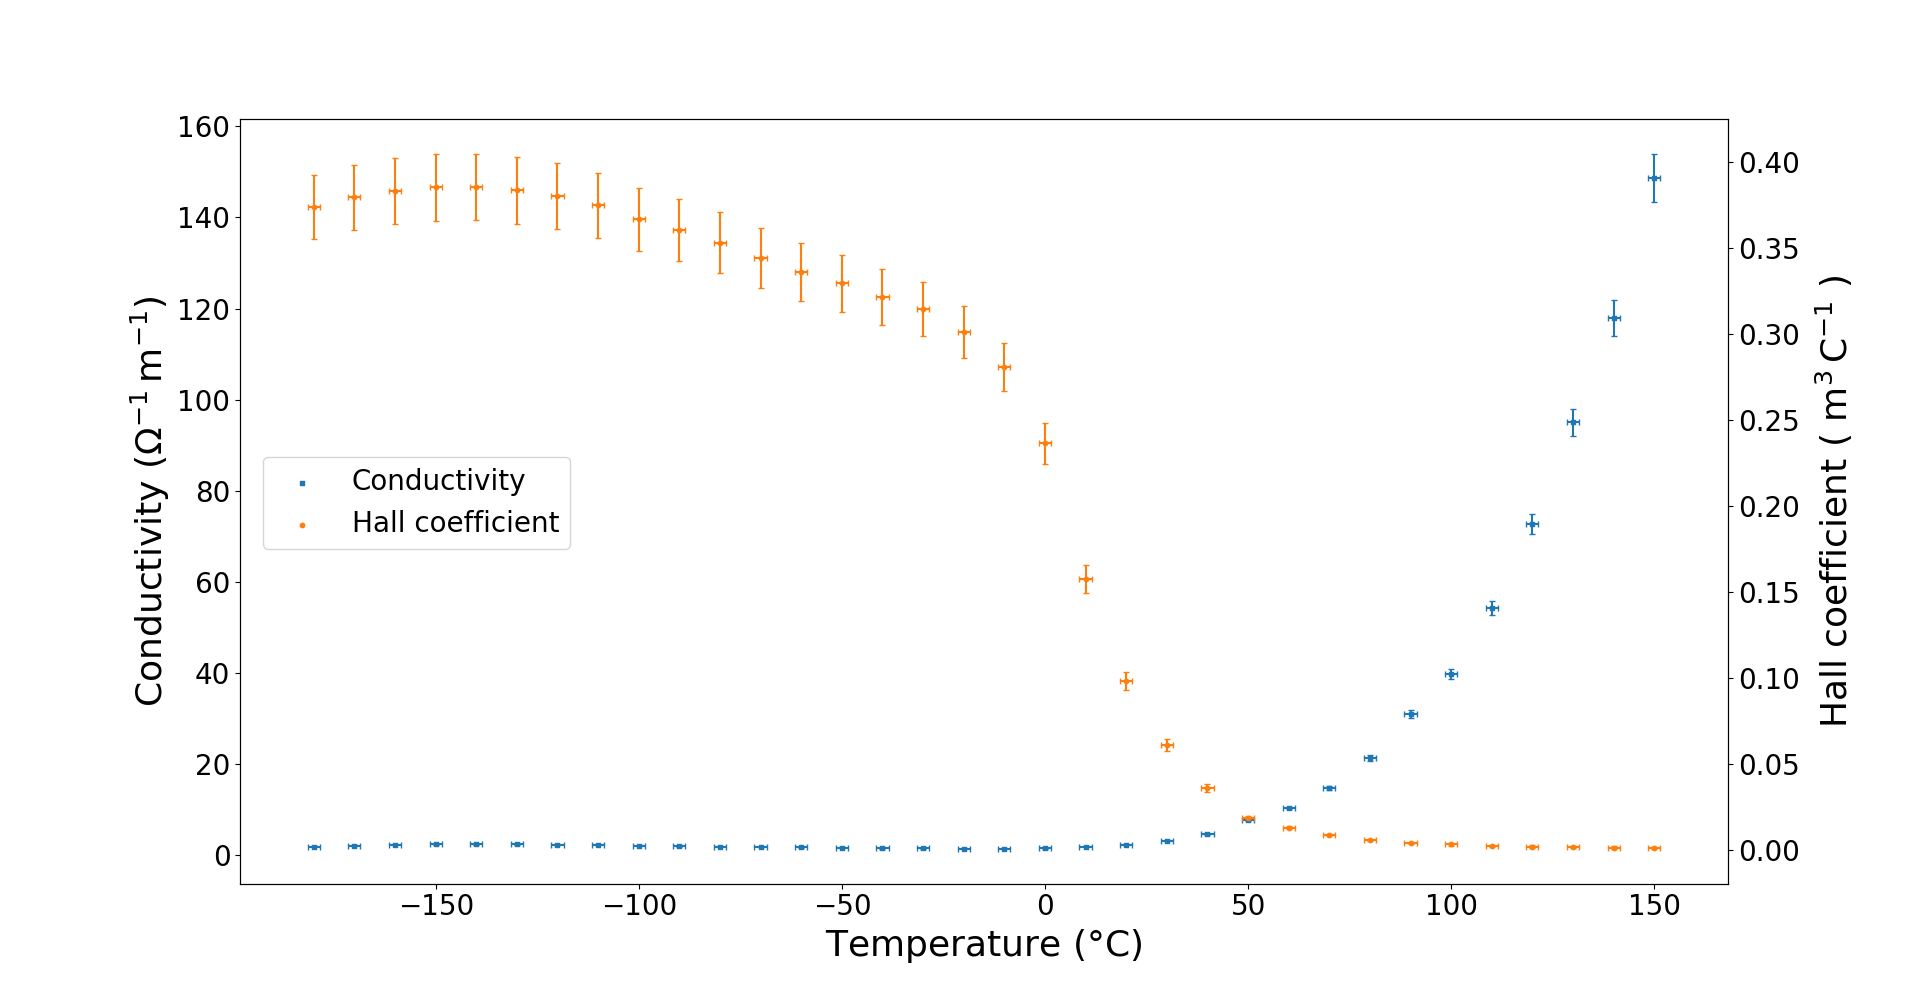
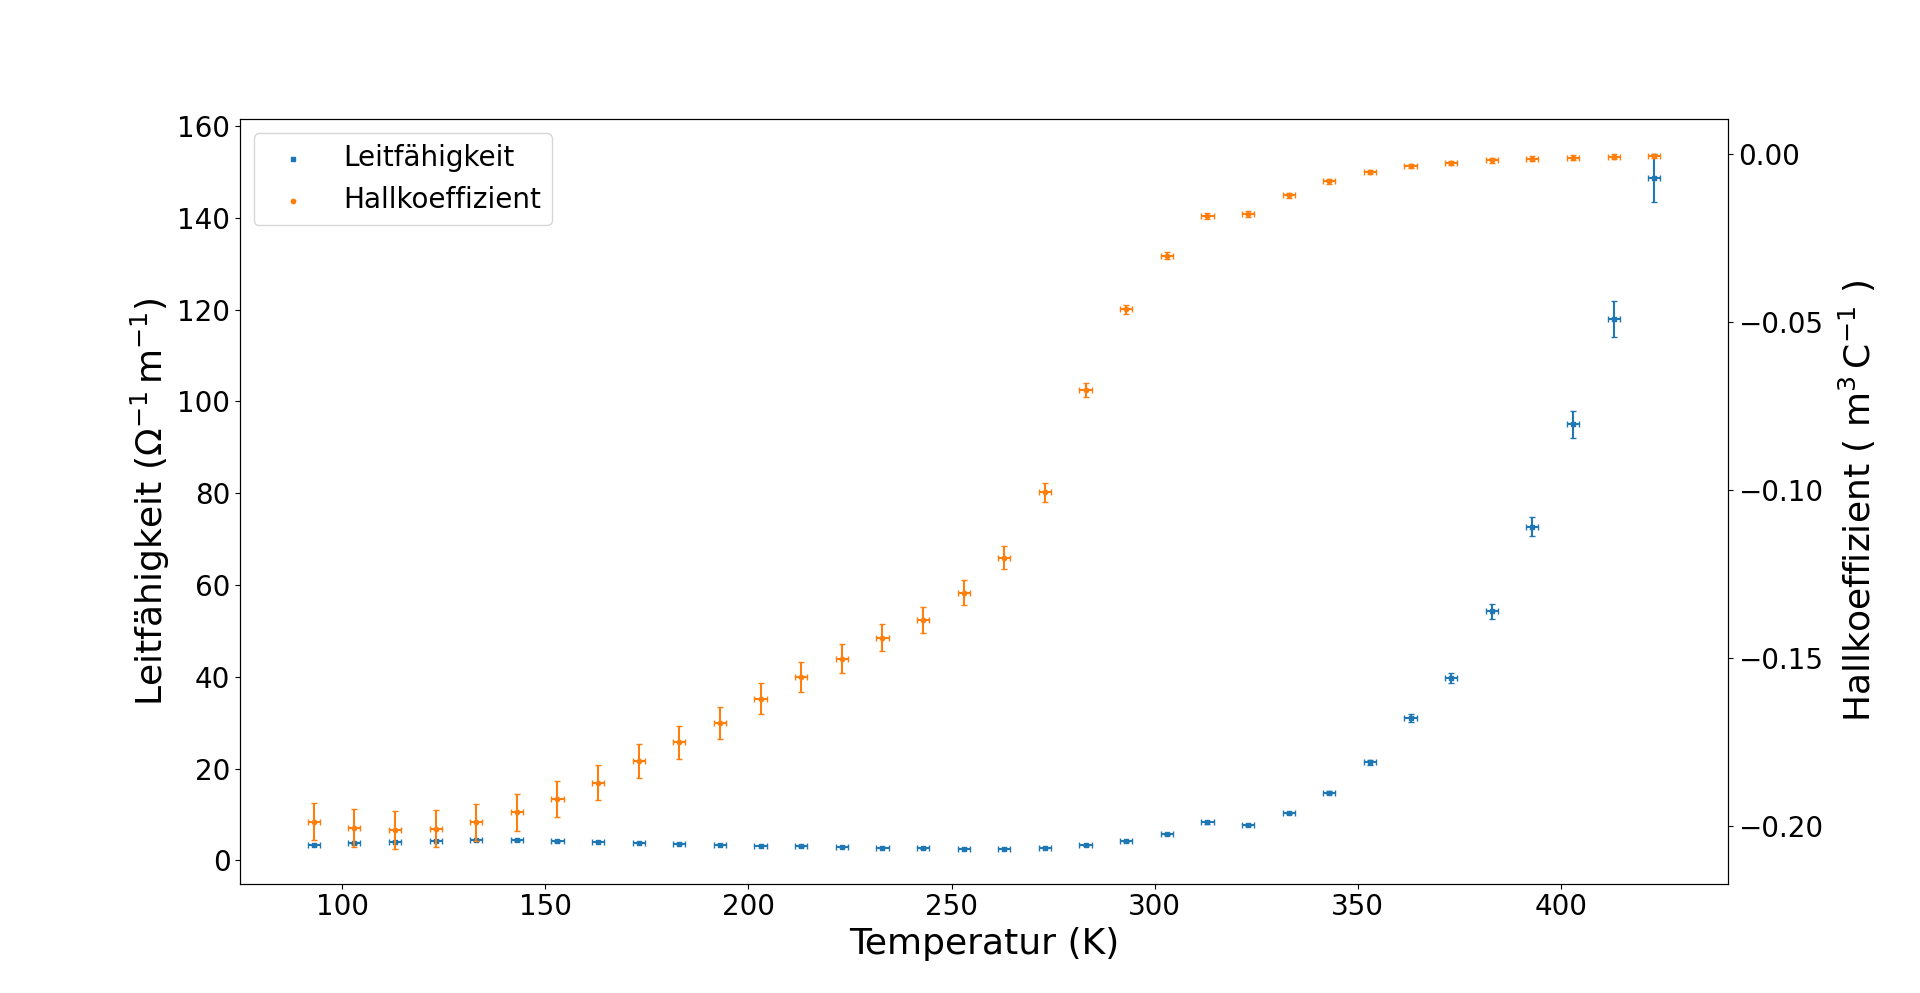
Update probe A script

diff --git a/05-HALL-EFFECT/script/probe_A.py b/05-HALL-EFFECT/script/probe_A.py
@@ -8,29 +8,113 @@ plt.rc('axes', labelsize=26)
 
 # Probe A
 T, U_cc_plus, U_hall_plus, U_cc_zero, U_hall_zero, U_cc_minus, U_hall_minus = np.loadtxt("../data/hall_A.txt",unpack=True)
+T += 273                                                                # in Kelvin
 I = np.array([1e-3 if T[i] < 50 else 1.8e-3 for i in range(len(T))])    # in Ampere
-U_hall = (0.5 * (U_hall_plus - U_hall_minus) - U_hall_zero) * 1e-3      # in Volt
+U_hall = ( 0.5 * (U_hall_plus - U_hall_minus)) * 1e-3                   # in Volt
 length, width, height = 19e-3, 10e-3, 1e-3                              # in Meter
 sigma = ( I/(width*height) ) / ( U_cc_zero/length )                     # in 1/( Ohm meter )
-R_hall = ( U_hall/width ) / ( I/(width*height) * -0.5 )                 # in m³/Coulomb
+R_hall = ( U_hall/width ) / ( I/(width*height) * 0.5 )                  # in m³/Coulomb
 delta_U, delta_I = 0.0005, 0.05e-3                                      # in Volt, Ampere
 sigma_err = sigma * np.sqrt( (delta_I/I)**2 + (delta_U/U_cc_zero)**2 )
 U_hall_err = np.sqrt( (0.5*delta_U)**2 + (0.5*delta_U)**2 + (delta_U)**2 )
 R_hall_err = R_hall * np.sqrt( (U_hall_err/U_hall)**2 + (delta_I/I)**2 )
 
+
 # # plot everything from first bullet point
 # fig, ax1 = plt.subplots()
 # ax2 = ax1.twinx()
-#
-# ax1.set_xlabel("Temperature ($°$C)")
-# ax1.set_ylabel("Conductivity ($\Omega^{-1}\,\mathrm{m}^{-1}$)")
-# ax2.set_ylabel(r"Hall coefficient ( $\mathrm{m}^3\,\mathrm{C}^{-1}$ )",labelpad=10)
+# ax1.set_xlabel("Temperatur (K)")
+# ax1.set_ylabel("Leitfähigkeit ($\Omega^{-1}\,\mathrm{m}^{-1}$)")
+# ax2.set_ylabel(r"Hallkoeffizient ( $\mathrm{m}^3\,\mathrm{C}^{-1}$ )",labelpad=10)
 # ax1.errorbar(T,sigma,xerr=1.5,yerr=sigma_err,ls="none",c="C0",capsize=2)
-# ax1.scatter(T,sigma,marker="s",s=10,label="Conductivity",c="C0")
+# ax1.scatter(T,sigma,marker="s",s=10,label="Leitfähigkeit",c="C0")
 # ax2.errorbar(T,R_hall,xerr=1.5,yerr=R_hall_err,ls="none",c="C1",capsize=2)
-# ax2.scatter(T,R_hall,marker="o",s=10,label="Hall coefficient",c="C1")
-# fig.legend()
+# ax2.scatter(T,R_hall,marker="o",s=10,label="Hallkoeffizient",c="C1")
+# fig.legend(loc="upper left", bbox_to_anchor=(0,1), bbox_transform=ax1.transAxes)
 
-# TODO
+# # plot both lines in one graph from second bullet point
+# plt.figure()
+# plt.yscale("log")
+# plt.axvline(45+273,ls="--",c="gray")
+# plt.annotate(r"I$_\mathrm{A}$ = 1.0 mA",(310,430),rotation=90)
+# plt.arrow(315,360,-4,0,length_includes_head=False,width=4,head_width=25,head_length=1,fc="k")
+# plt.annotate(r"I$_\mathrm{A}$ = 1.8 mA",(320,430),rotation=90)
+# plt.arrow(320.5,360,4,0,length_includes_head=False,width=4,head_width=25,head_length=1,fc="k")
+# plt.errorbar(T[:-3],1/abs(R_hall[:-3]),label=r"$|R_\mathrm{Hall}|^{-1}$ / $\mathrm{m}^3\,\mathrm{C}^{-1}$",xerr=1.5,yerr=R_hall_err[:-3]/R_hall[:-3]**2,ls="none",capsize=2)
+# plt.errorbar(T[-3:],1/abs(R_hall[-3:]),xerr=1.5,yerr=[R_hall_err[-3:]/R_hall[-3:]**2,[0,0,0]],capsize=2,c="C0",ls="none")
+# plt.errorbar(T[-3:],1/abs(R_hall[-3:]),xerr=1.5,yerr=400,capsize=2,c="C0",ls="none",uplims=True)
+# plt.errorbar(T,sigma,label=r"$\sigma$ / $\Omega^{-1}\,\mathrm{m}^{-1}$",xerr=1.5,yerr=sigma_err,capsize=2,ls="none")
+# plt.xlabel("Temperatur (K)")
+# plt.legend()
+
+# extrinsic region
+T_ext = T[8:17]
+mu_ext = sigma[8:17] * abs(R_hall[8:17])
+(m_ext,c_ext), pcov_ext = np.polyfit(np.log(T_ext), np.log(mu_ext), 1, cov=True)
+model_ext = np.exp(m_ext*np.log(T_ext) + c_ext)
+grad_ext = [ np.array([T_ext[i] * model_ext[i], model_ext[i] ]) for i in range(len(T_ext))]
+errors_ext = [ np.sqrt(grad_ext[i].T @ pcov_ext @ grad_ext[i]) for i in range(len(T_ext))]
+
+# intrinsic region
+T_int = T[25:]
+mu_int = sigma[25:] * abs(R_hall[25:])
+(m_int,c_int), pcov_int = np.polyfit(np.log(T_int), np.log(mu_int), 1, cov=True)
+model_int = np.exp(m_int*np.log(T_int) + c_int)
+grad_int = [ np.array([T_int[i] * model_int[i], model_int[i] ]) for i in range(len(T_int))]
+errors_int = [ np.sqrt(grad_int[i].T @ pcov_int @ grad_int[i]) for i in range(len(T_int))]
+
+# # plot double logarithmic plot from second bullet poext
+# plt.figure()
+# plt.xscale("log")
+# plt.yscale("log")
+# plt.scatter(T,sigma * abs(R_hall), s=10,label=r"Messdaten $\pm\,1\sigma$")
+# plt.errorbar(T[:-7],sigma[:-7] * abs(R_hall[:-7]),xerr=1.5,yerr=np.sqrt( (R_hall[:-7] * sigma_err[:-7])**2 + (sigma[:-7] * R_hall_err[:-7])**2 ),ls="none",capsize=2)
+# plt.errorbar(T[-7:],sigma[-7:] * abs(R_hall[-7:]),xerr=1.5,yerr=[[0,0,0,0,0,0,0],np.sqrt( (R_hall[-7:] * sigma_err[-7:])**2 + (sigma[-7:] * R_hall_err[-7:])**2 )],ls="none",capsize=2,c="C0")
+# plt.errorbar(T[-7:],sigma[-7:] * abs(R_hall[-7:]),xerr=1.5,yerr=[[1.5e-2,1.6e-2,1.7e-2,1.8e-2,2.2e-2,2e-2,2e-2],[0,0,0,0,0,0,0]],ls="none",capsize=2,c="C0",uplims=True)
+# plt.plot(T_int,model_int,label="intrinsischer Bereich")
+# plt.plot(T_ext,np.exp(m_ext*np.log(T_ext) + c_ext),label="extrinsischer Bereich")
+# plt.yticks(np.array(range(1,11))*1e-1,["0.1","0.2","0.3","0.4","0.5","0.6","0.7","0.8","0.9","1.0"])
+# plt.xticks([100,200,300,400],["100","200","300","400"])
+# plt.xlabel("Temperatur (K)")
+# plt.ylabel("Mobilität ($\mathrm{m}^2\,\mathrm{V}^{-1}\,\mathrm{s}^{-1}$)")
+# plt.ylim(0.05,1)
+# plt.legend()
+
+# charge carrier concentration and band gap
+b = lambda T: 1.24553 + 107e-5 * T
+e = 1.602e-19                                                           # in Coulomb
+b_int = b(T_int)
+b_err = b(T_int[0] + 1.5) - b(T_int[0])
+ccc = 1/(e * R_hall[8:17]) * (1-b_int)/(1+b_int)                        # in 1/Meter³
+ccc_err = 1e-20 * ccc * np.sqrt( (R_hall_err[25:]/R_hall[25:])**2 + (b_err * (1/(1-b_int) + 1/(1+b_int)))**2 )
+y_data = np.log(ccc/T_int**(2/3))
+y_data_err = np.sqrt( (ccc_err/ccc)**2 + (2*1.5/(3*T_int))**2 )
+popt, pcov = np.polyfit(1/T_int,y_data,1,w=1/y_data_err,cov=True)
+model = np.poly1d(popt)(1/T_int)
+grad = [np.array([1/T_int[i],1]) for i in range(len(model))]
+model_err = [ np.sqrt(grad[i].T @ pcov @ grad[i]) for i in range(len(model))]
+E_gap, E_gap_err = - 2 * 0.08617e-3 * popt[0], 2 * 0.08617e-3 * np.sqrt(pcov[0][0])
+E_gap_300, E_gap_300_err =
+
+print(f"Germanium Bandgap: E = {E_gap*10:.3f} +- {E_gap_err*10:.3f} eV")
+print(f"at 300 Kelvin: E_300 = {E_gap_300:.3f} +- {E_gap_300_err:.3f} eV")
+print(f"Y axis intercept : y = {popt[1]:.1f} +- {np.sqrt(pcov[0][0])*1e-1:.1f} eV")
+print(f"Charge carrier concentration at 300K: {ccc_300} +- {ccc_300_err} 1/m3")
+
+
+# # plot charge carrier concentration from fourth bullet point
+# plt.figure()
+# plt.errorbar(T_int,ccc*1e-19,xerr=1.5,yerr=ccc_err,ls="none",capsize=2,marker="s")
+# plt.ylabel(r"Ladungsträgerkonzentration ($10^{19}\;\mathrm{m}^{-3}$)",labelpad=20)
+# plt.xlabel("Temperatur (K)")
+
+# plot Arrhenius presentation from fifth bullet point
+plt.figure()
+plt.xlabel("inv. Temperatur (K$^{-1}$)")
+plt.ylabel(r"log( $\frac{n_i}{T^{2/3}}$ )")
+plt.plot(1/T_int,model,c="C0",ls="--",label=r"Modell $\pm\,1\sigma$")
+plt.fill_between(1/T_int,model-model_err,model+model_err,color="C0",alpha=0.2)
+plt.errorbar(1/T_int,y_data,xerr=1.5/T_int**2,yerr=y_data_err,ls="none",capsize=2,marker="s",label="Messdaten",markersize=3)
+plt.legend()
 
 plt.show()
